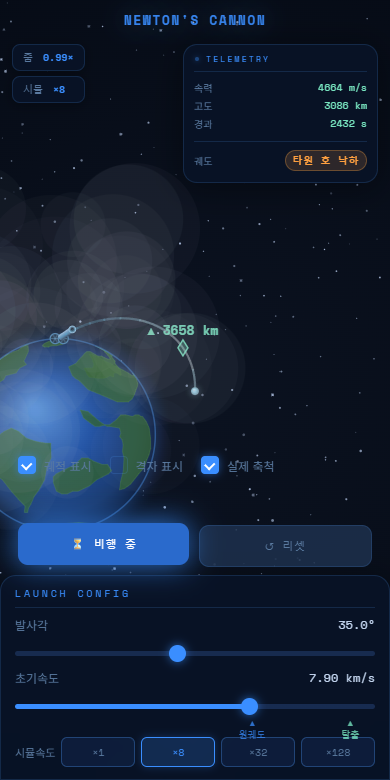
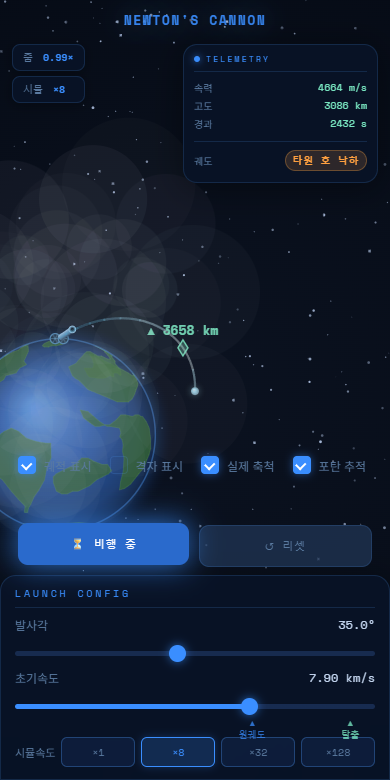
포탄 추적 토글(F) · 압축 보기 왜곡 경고 배지
- 한 바퀴를 돌아도 추적을 자동으로 멈추지 않습니다. 궤도 전체 보기는
  display.followCam 을 끄는 명시적 선택(F 키 / '포탄 추적' 체크박스)으로:
  지구 중앙 + fitZoomForOrbit(속박) 또는 fitZoomForRadius(비속박)
- 압축 보기(로그 축척)에서는 좌상단에 '축척 압축 · 모양 왜곡' 배지 표시
- 브라우저 테스트: 공전 후 추적 유지, F 토글·체크박스 동기화, 경고 배지
- README/ARCHITECTURE: 달걀꼴 왜곡 설명, F 단축키

Claude-Session: https://claude.ai/code/session_01EM7yxGSXG6YXyEnFAWo37v

diff --git a/src/app/modes/OrbitalMode.js b/src/app/modes/OrbitalMode.js
@@ -30,8 +30,9 @@ import { particlesLayer, explosionLayer } from '../../render/layers/effects.js';
  *
  * 투영은 두 가지 중 display.trueScale 로 고릅니다.
  *  - 실제 축척(기본): 궤적이 화면에서도 정확한 원뿔곡선. 지구가 초점에 있습니다.
- *                     카메라가 포탄을 따라가고(followZoom), 한 바퀴를 다 돌거나 비행이
- *                     끝나면 지구를 중앙에 두고 전체가 보이게 물러납니다.
+ *                     카메라가 포탄을 따라가고(followZoom), 비행이 끝나면 지구를 중앙에
+ *                     두고 전체가 보이게 물러납니다. display.followCam 을 끄면(F) 비행 중에도
+ *                     지구 중앙 + 궤도 전체 보기.
  *  - 압축 보기      : 로그 반지름. 30 Re 탈출까지 한 화면 — 대신 모양은 왜곡됩니다.
  * 줌·카메라 정책도 투영에 따라 다르므로 여기서 함께 고릅니다(zoomPolicy 참고).
  */
@@ -69,8 +70,11 @@ export function createOrbitalMode() {
 
   const projectionFor = (isTrue) => (isTrue ? RadialLinearProjection : RadialLogProjection);
 
-  /** 실제 축척에서 "한 바퀴 다 돌았다" — 추적을 멈추고 타원 전체를 보여줄 시점 */
-  const orbitShown = () => trueScale && sim.trail.locked;
+  /** display.followCam (기본 켬). 끄면 지구를 가운데 두고 궤도 전체를 보여줍니다 */
+  let followCam = true;
+
+  /** 실제 축척에서 "궤도 전체 보기" — 지구 중앙 + 궤도(또는 탈출 경로)가 다 들어오는 줌 */
+  const overview = () => trueScale && !followCam;
 
   /** 발사 전·리셋 시의 줌. 압축 보기는 속도로 미리 물러나고, 실제 축척은 지구를 그대로 둡니다 */
   function previewZoom(vp, config) {
@@ -81,7 +85,11 @@ export function createOrbitalMode() {
   /** 비행 중 줌 */
   function flightZoom(vp, config) {
     if (!trueScale) return Math.min(speedToZoom(config.initSpeed), altToZoom(sim.radius));
-    if (orbitShown()) return fitZoomForOrbit({ pos: sim.pos, vel: sim.vel }, vp);
+    if (overview()) {
+      return sim.unbound
+        ? fitZoomForRadius(sim.radius * 1.05, vp)
+        : fitZoomForOrbit({ pos: sim.pos, vel: sim.vel }, vp);
+    }
     return followZoom(sim.radius);
   }
 
@@ -190,6 +198,7 @@ export function createOrbitalMode() {
     onFlightEnd: () => null,
 
     update({ vp, cam, config, display }) {
+      followCam = display?.followCam !== false;
       // 체크박스로 축척을 바꾸면 그 자리에서 투영을 갈아끼웁니다
       if (syncProjection(vp, display)) vp.setZoom(policyZoom(vp, config), { immediate: true });
 
@@ -197,10 +206,10 @@ export function createOrbitalMode() {
       vp.zoom.target = policyZoom(vp, config);
       vp.updateZoom();
 
-      // ── 카메라: 비행 중 포탄 추적. 실제 축척은 한 바퀴를 다 돌면 지구 중앙으로 ──
+      // ── 카메라: 비행 중 포탄 추적 (F 로 끄면 지구 중앙 + 궤도 전체) ──
       // 압축 보기는 지구가 화면에서 너무 멀어지지 않게 clamp 하지만, 실제 축척은
       // 지구가 수천 px 밖에 있는 게 정상이므로(earthLocator 가 방향을 알려줌) 풀어 둡니다.
-      const follow = sim.active && sim.trail.length > 0 && !orbitShown() ? sim.pos : null;
+      const follow = sim.active && sim.trail.length > 0 && !overview() ? sim.pos : null;
       cam.update(vp, follow, { clamp: !trueScale });
       if (!sim.active && !sim.done) cam.centerOn(vp);
 

diff --git a/scripts/browser-test.js b/scripts/browser-test.js
@@ -433,11 +433,17 @@ try {
   await shot('06a-추적카메라');
   await page.keyboard.press('4');
 
-  // 한 바퀴를 다 돌면 지구를 중앙에 두고 타원 전체가 보이게 물러납니다
+  // 한 바퀴를 다 돌아도 추적은 계속됩니다. F(포탄 추적 해제)로 지구 중앙 + 타원 전체 보기
   await page.waitForFunction(() => window.__cannon.router.current.sim.trail.locked,
     null, { timeout: 40000 });
+  await page.waitForTimeout(300);
+  const locked = await camState();
+  check('1회 공전 후에도 포탄 추적 유지', Math.hypot(locked.offX, locked.offY) < 40,
+    `오프셋 ${Math.hypot(locked.offX, locked.offY).toFixed(0)} px`);
+  await page.keyboard.press('f');
   await page.waitForTimeout(2500);
-  check('1회 공전 후 지구 중앙 복귀', (await camState()).camAtEarth);
+  check('F → 추적 해제, 지구 중앙 복귀', (await camState()).camAtEarth);
+  check('체크박스 동기화 (포탄 추적 해제)', !(await page.$eval('#chk-follow', (el) => el.checked)));
 
   /**
    * 화면에 찍힌 궤적 점이 "지구 중심을 초점으로 하는 원뿔곡선" 위에 있는지 잽니다.
@@ -493,12 +499,15 @@ try {
   const shLog = await shapeCheck();
   check('L → 압축 보기(로그 투영)', shLog.projection === 'radial-log', shLog.projection);
   check('체크박스 동기화 (해제)', !(await page.locator('#chk-scale').isChecked()));
+  check('압축 보기 경고 배지 표시', await page.$eval('#scale-badge', (el) => el.style.display === 'flex'));
   check('로그 투영에서는 초점이 어긋남 (검증 지표가 왜곡을 잡아냄)', shLog.maxRel > 0.05,
     `max 잔차 ${(shLog.maxRel * 100).toFixed(1)}%, 거리비 ${shLog.screenRatio.toFixed(2)}`);
   await shot('06c-압축보기-타원');
   await page.keyboard.press('l');
   await page.waitForTimeout(400);
   check('L → 실제 축척 복귀', (await shapeCheck()).projection === 'radial-linear');
+  await page.keyboard.press('f');
+  check('F → 포탄 추적 복귀', await page.$eval('#chk-follow', (el) => el.checked));
 
   // ═══ [5c] 탈출 속도 미만의 먼 타원 — 지구 위치 표시창 + 에너지 기준 탈출 판정 ═══
   console.log('\n[5c] 11000 m/s, 0° — 원지점 30.6 Re 타원');

diff --git a/src/ui/controls.js b/src/ui/controls.js
@@ -41,6 +41,9 @@ export function bindControls(bus, initial) {
   els.chkScale().addEventListener('change', (e) => {
     bus.emit(EV.DISPLAY_CHANGED, { trueScale: e.target.checked });
   });
+  els.chkFollow().addEventListener('change', (e) => {
+    bus.emit(EV.DISPLAY_CHANGED, { followCam: e.target.checked });
+  });
 
   els.btnFire().addEventListener('click', () => bus.emit(EV.LAUNCH_REQUESTED));
   els.btnReset().addEventListener('click', () => bus.emit(EV.RESET_REQUESTED));
@@ -112,9 +115,12 @@ export function setFireButtonLaunched(launched) {
   btn.textContent = launched ? '⏳ 비행 중' : '🚀 발사';
 }
 
-/** 체크박스 상태를 화면 옵션과 맞춥니다(단축키로 바꿨을 때) */
-export function syncDisplayToggles({ showTrail, showGrid, trueScale }) {
+/** 체크박스·배지 상태를 화면 옵션과 맞춥니다(단축키로 바꿨을 때) */
+export function syncDisplayToggles({ showTrail, showGrid, trueScale, followCam }) {
   els.chkTrail().checked = showTrail;
   els.chkGrid().checked = showGrid;
   els.chkScale().checked = trueScale !== false;
+  els.chkFollow().checked = followCam !== false;
+  // 압축 보기는 궤도 모양이 왜곡되므로 화면에 경고 배지를 띄웁니다
+  els.scaleBadge().style.display = trueScale === false ? 'flex' : 'none';
 }

diff --git a/index.html b/index.html
@@ -74,6 +74,10 @@
       <div class="badge-pill badge-mode" id="mode-badge" style="display:none">
         <span>시점</span><b id="mode-val">지표면</b>
       </div>
+      <!-- 압축 보기(로그 축척)일 때만 표시 — 궤도 모양이 왜곡된다는 경고 -->
+      <div class="badge-pill badge-warn" id="scale-badge" style="display:none">
+        <span>축척</span><b>압축 · 모양 왜곡</b>
+      </div>
     </div>
 
     <!-- 컨트롤 패널 (우하단) -->
@@ -134,10 +138,14 @@
         <input type="checkbox" id="chk-scale" checked>
         <span class="check-box"></span>실제 축척
       </label>
+      <label class="check-item" title="끄면 지구를 가운데 두고 궤도 전체가 보이게 물러납니다 (실제 축척에서만)">
+        <input type="checkbox" id="chk-follow" checked>
+        <span class="check-box"></span>포탄 추적
+      </label>
     </div>
 
     <div class="shortcut-hint">
-      <span>Space: 발사 / R: 리셋 / G: 격자 / L: 축척 / 1·2·3·4: 시뮬속도</span>
+      <span>Space: 발사 / R: 리셋 / G: 격자 / L: 축척 / F: 추적 / 1·2·3·4: 시뮬속도</span>
     </div>
 
   </div><!-- /.ui -->

diff --git a/src/render/zoomPolicy.js b/src/render/zoomPolicy.js
@@ -15,8 +15,8 @@ import { orbitalElements } from '../physics/orbit.js';
  * ▸ 선형 투영(실제 축척)
  *  - followZoom      : 비행 중. 카메라가 포탄을 따라가며 거리에 따라 **조금씩만** 물러납니다.
  *                      지구가 시야에서 벗어나면 earthLocator 레이어가 방향을 알려줍니다.
- *  - fitZoomForOrbit : 한 바퀴를 다 돌면 지구를 중앙에 두고 **타원 전체**가 보이게 물러납니다.
- *                      (이때 비로소 "지구가 초점인 타원"이 한눈에 들어옵니다)
+ *  - fitZoomForOrbit : 추적을 끄면(F) 지구를 중앙에 두고 **타원 전체**가 보이게 물러납니다.
+ *                      ("지구가 초점인 타원"을 한눈에 보여줄 때)
  *  - fitZoomForRadius: 착탄·탈출 뒤 궤적 전체(최고 고도까지)가 들어오는 결과 화면.
  */
 

diff --git a/scripts/capture-docs.js b/scripts/capture-docs.js
@@ -65,11 +65,13 @@ try {
   await page.waitForFunction(() => window.__cannon.router.current.sim.radius > 3.6 * 6.371e6,
     null, { timeout: 60000 });
   await shot('02a-orbit-follow');
-  // 한 바퀴를 다 돌면 지구 중앙 + 타원 전체가 보이게 물러납니다
+  // 한 바퀴를 다 돌면 F(추적 해제)로 지구 중앙 + 타원 전체
   await page.waitForFunction(() => window.__cannon.router.current.sim.trail.locked,
     null, { timeout: 60000 });
+  await page.keyboard.press('f');
   await wait(3000);
   await shot('02-orbit-ellipse');
+  await page.keyboard.press('f');
   await page.keyboard.press('g');
 
   // ②b 지구 위치 표시창 — 11 km/s 로 20 Re 까지 나가면 지구가 화면 밖

diff --git a/src/ui/hotkeys.js b/src/ui/hotkeys.js
@@ -14,6 +14,7 @@ export function bindHotkeys(bus, { getDisplay } = {}) {
     g: () => bus.emit(EV.DISPLAY_CHANGED, { showGrid: !getDisplay().showGrid }),
     t: () => bus.emit(EV.DISPLAY_CHANGED, { showTrail: !getDisplay().showTrail }),
     l: () => bus.emit(EV.DISPLAY_CHANGED, { trueScale: !getDisplay().trueScale }),
+    f: () => bus.emit(EV.DISPLAY_CHANGED, { followCam: !getDisplay().followCam }),
     1: () => bus.emit(EV.TIME_SCALE_CHANGED, { mult: 1 }),
     2: () => bus.emit(EV.TIME_SCALE_CHANGED, { mult: 8 }),
     3: () => bus.emit(EV.TIME_SCALE_CHANGED, { mult: 32 }),

diff --git a/src/ui/dom.js b/src/ui/dom.js
@@ -29,6 +29,7 @@ export const els = {
   simSpeedVal: () => $('simspd-val'),
   modeBadge: () => $('mode-badge'),
   modeVal: () => $('mode-val'),
+  scaleBadge: () => $('scale-badge'),
 
   // 컨트롤
   sliderAngle: () => $('s-ang'),
@@ -43,6 +44,7 @@ export const els = {
   chkTrail: () => $('chk-trail'),
   chkGrid: () => $('chk-grid'),
   chkScale: () => $('chk-scale'),
+  chkFollow: () => $('chk-follow'),
 
   // 모바일 레이아웃 계산용
   ctrlPanel: () => document.querySelector('.ctrl-panel'),

diff --git a/src/app/App.js b/src/app/App.js
@@ -42,7 +42,7 @@ export class App {
   /** 발사 설정 — UI 와 모드가 공유하는 유일한 진실 */
   config = { angleDeg: 0, initSpeed: 4000, timeScale: 8 };
   /** 표시 옵션 */
-  display = { showTrail: true, showGrid: false, trueScale: true };
+  display = { showTrail: true, showGrid: false, trueScale: true, followCam: true };
 
   /**
    * 사용자가 마지막으로 고른 배속.

diff --git a/styles/layout.css b/styles/layout.css
@@ -44,3 +44,8 @@
   box-shadow: 0 2px 12px rgba(0,0,0,0.3), 0 0 14px rgba(126,240,200,0.12);
 }
 .badge-pill.badge-mode b { color: var(--accent2); }
+.badge-pill.badge-warn {
+  border-color: rgba(255,170,80,0.4);
+  box-shadow: 0 2px 12px rgba(0,0,0,0.3), 0 0 14px rgba(255,170,80,0.12);
+}
+.badge-pill.badge-warn b { color: rgba(255,190,110,0.95); }

diff --git a/README.md b/README.md
@@ -63,11 +63,14 @@
 비행 중에는 카메라가 **포탄을 따라갑니다.** 멀리 갈수록 조금씩 물러나지만(줌 ∝ 1/√거리)
 궤도 전체를 한눈에 넣으려고 확 빠지지는 않습니다 — 지구가 뒤로 작아지고 하늘이 비어 가는
 "떠나는 느낌"이 남도록 한 것입니다. 지구가 화면 밖으로 완전히 나가면 **지구가 있는 방향의
-가장자리에 둥근 창**이 떠서 미니 지구와 지금 거리를 보여 줍니다. 한 바퀴를 다 돌면 지구를
-가운데 두고 **타원 전체가 보이도록** 물러나고, 착탄·탈출로 끝나도 마찬가지입니다.
+가장자리에 둥근 창**이 떠서 미니 지구와 지금 거리를 보여 줍니다. 궤도 전체를 한눈에 보고
+싶으면 `F` 키(또는 **포탄 추적** 체크 해제)로 추적을 끄세요 — 지구를 가운데 두고 **타원 전체가
+보이도록** 물러납니다. 착탄·탈출로 비행이 끝나면 자동으로 그렇게 됩니다.
 
 `L` 키(또는 **실제 축척** 체크 해제)로 **압축 보기**로 바꾸면 먼 곳을 로그 눈금으로 눌러
-탈출 궤도까지 한 화면에 보이지만, 그 대신 **모양이 왜곡**됩니다(초점이 지구에서 벗어남).
+탈출 궤도까지 한 화면에 보이지만, 그 대신 **모양이 왜곡**됩니다 — 반지름을 로그로 누르기 때문에
+멀리 나가는 타원일수록 원지점 쪽이 뾰족한 **달걀꼴**이 되고 초점도 지구에서 벗어납니다.
+화면 좌상단에 `축척 압축 · 모양 왜곡` 배지가 떠 있는 동안은 모양을 믿지 마세요.
 수업에서 "이 궤적이 정말 타원인가"를 다룰 때는 반드시 실제 축척으로 보여 주세요.
 
 ### ⛰ 지표면 시점 — 궤도를 못 도는 느린 발사일 때 자동 전환
@@ -104,7 +107,8 @@
 | **↺ 리셋** / `R` | 처음으로 (궤도 시점으로 복귀) |
 | **궤적 표시** / `T` | 지나온 길 표시 |
 | **격자 표시** / `G` | 거리·고도 눈금 표시 |
-| **실제 축척** / `L` | 켜면 실제 비율(타원이 정확한 타원), 끄면 압축 보기(먼 곳을 로그로 압축) |
+| **실제 축척** / `L` | 켜면 실제 비율(타원이 정확한 타원), 끄면 압축 보기(먼 곳을 로그로 압축, 모양 왜곡) |
+| **포탄 추적** / `F` | 켜면 카메라가 포탄을 따라감, 끄면 지구 중앙 + 궤도 전체 보기 (실제 축척에서만) |
 | **시뮬속도** / `1` `2` `3` `4` | ×1 · ×8 · ×32 · ×128 |
 
 > ⏱ **시간에 대하여.** 물리는 언제나 **실제 시간 그대로** 계산됩니다 (×1이면 1초 = 1초).

diff --git a/ARCHITECTURE.md b/ARCHITECTURE.md
@@ -125,8 +125,11 @@ EventBus ──► App  (유일한 상태 소유자: config / display)
      clamp 는 끄므로 지구가 화면 밖으로 나갈 수 있고, 그때 `earthLocator` 레이어가
      지구 방향 가장자리에 둥근 창(미니 지구 + 거리)을 띄웁니다. 창이 DOM 오버레이(타이틀·HUD·패널)와
      겹치면 같은 가장자리를 따라 비켜섭니다(`.ui > *` 의 사각형을 읽음).
-  3. 한 바퀴를 돌아 궤적이 잠기면(`trail.locked`) 지구를 중앙에 두고 `fitZoomForOrbit` 으로
-     **타원 전체**(원지점이 화면의 80% 안)를 보여 줍니다. 착탄·탈출 뒤에는 `fitZoomForRadius(R_EARTH + maxAlt)`.
+  3. `display.followCam` 을 끄면(`F` / 포탄 추적 체크 해제) 지구를 중앙에 두고 `fitZoomForOrbit` 으로
+     **타원 전체**(원지점이 화면의 80% 안)를, 비속박이면 `fitZoomForRadius(r·1.05)` 를 보여 줍니다.
+     착탄·탈출 뒤에는 `fitZoomForRadius(R_EARTH + maxAlt)`.
+  압축 보기에서는 좌상단에 `축척 압축 · 모양 왜곡` 경고 배지(`#scale-badge`)가 뜹니다 —
+  로그 반지름은 먼 타원의 원지점 쪽을 뾰족한 달걀꼴로 만들기 때문입니다.
 
   추적 카메라(`Camera.update`)는 대상의 프레임당 이동량을 그대로 실어 나르고 **오프셋만** lerp 합니다
   (feed-forward). 단순 lerp 는 정상 상태에서도 속도에 비례한 지연이 남아 ×128 근지점에서 포탄이
